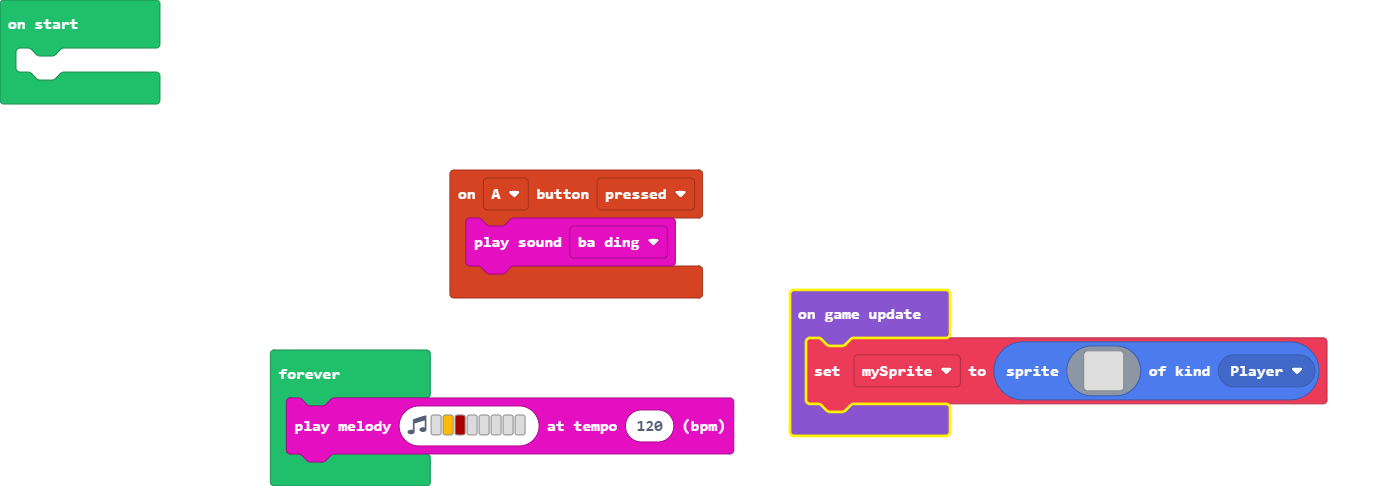
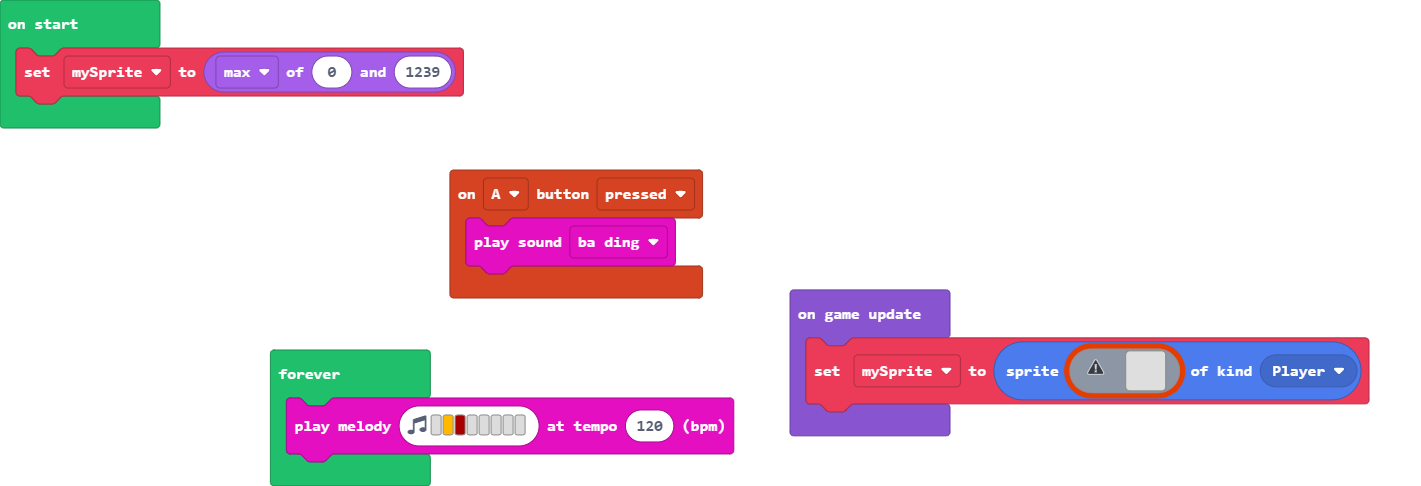
joe mama

Changed region(s): [[0.1871, 0.3395, 0.9666, 1.0], [0.0, 0.0, 0.343, 0.2778], [0.0, 0.0309, 0.0624, 0.0617]]

diff --git a/main.ts b/main.ts
@@ -1,7 +1,7 @@
-let mySprite: Sprite = null
 controller.A.onEvent(ControllerButtonEvent.Pressed, function () {
     music.baDing.play()
 })
+let mySprite = Math.max(0, 1239)
 game.onUpdate(function () {
     mySprite = sprites.create(img`
         . . . . . . . . . . . . . . . . 
